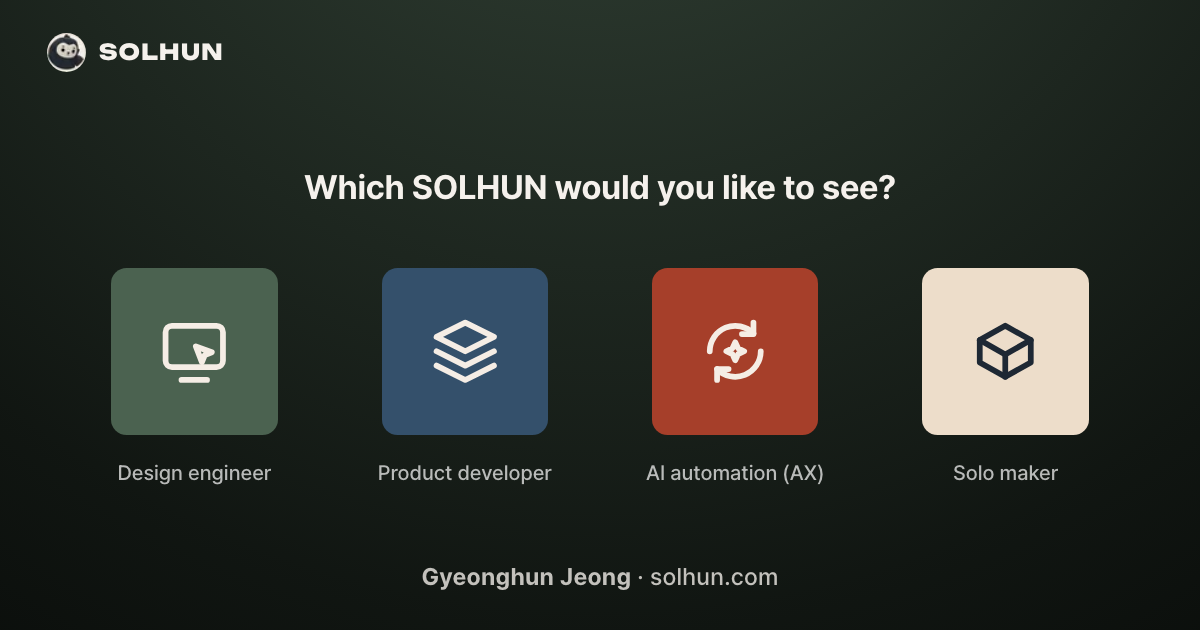
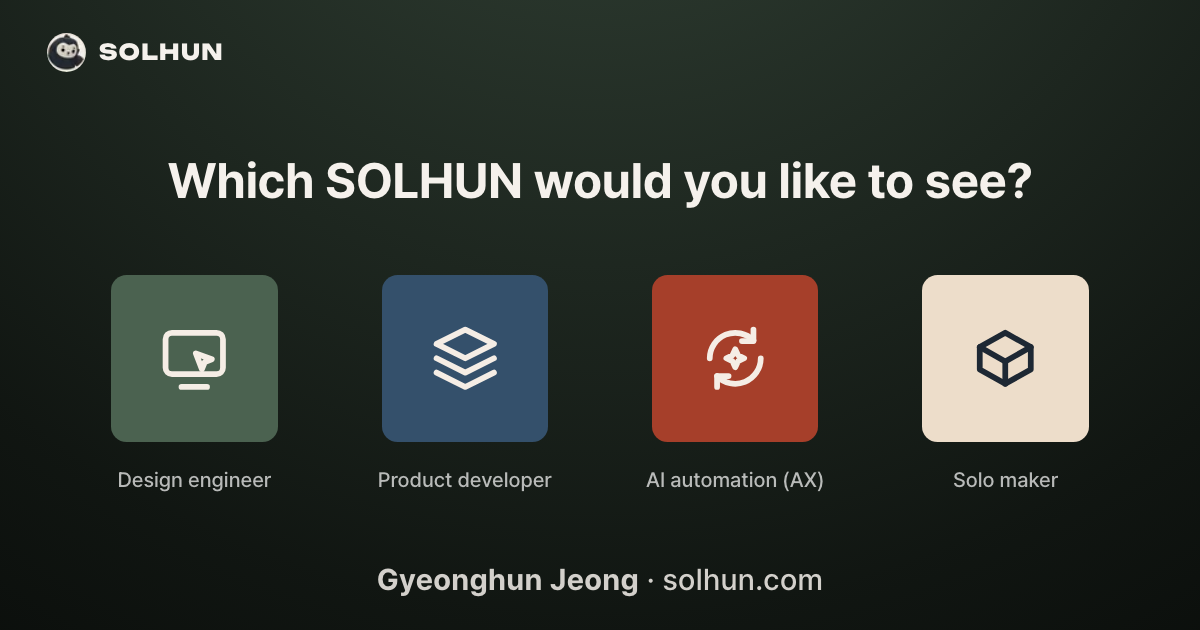
fix: 미리보기 그림 글자 키움 · 생성 스크립트 리뷰 반영(세 장 한 번에 교체 · 죽은 선택자 제거)
말풍선 폭(260px)에서 그림 속 제목이 7px 로 줄어 안 읽혔다 — 제목 38px · 이름 줄 30px 로.
diff 리뷰 낮음 3건: 없는 feedback 선택자 제거, .picker 를 기준 상자로, 임시 폴더에 다 만든 뒤 옮김.

diff --git a/README.md b/README.md
@@ -31,7 +31,7 @@ pnpm e2e:workers                              # E2E(Workers · cf:build 뒤) · 
 | `src/content/images.ts` · `artifacts.ts` | 사진 경로·크기(`public/work/`) · 결과물 목록 |
 | `src/app/(ko)/` · `src/app/(intl)/[locale]/` | 한국어 `/` · `/en`·`/es` — 언어마다 루트 레이아웃을 따로 둬서 `<html lang>` 이 정확하다 |
 | `/` → `src/components/screen/RolePicker.tsx` | 첫 화면 「어떤 SOLHUN을 볼까요?」 — 역할 타일 4개(좁으면 2×2) + 「전부 볼게요」 · 「정경훈 소개」 창. 고르면 `/as/<역할>` |
-| `public/og/home-{ko,en,es}.png` ← `scripts/og-image.mjs` | 홈 링크 미리보기 그림(1200×630) — 운영 첫 화면을 찍어 언어 버튼·단추를 숨기고 이름·주소를 얹은 것(제보 5567b8b0). 역할 이름·첫 화면을 바꿨으면 배포 뒤 `node scripts/og-image.mjs` 로 다시 만들어 커밋한다. 상세·역할 화면은 그대로 작품 표지 |
+| `public/og/home-{ko,en,es}.png` ← `scripts/og-image.mjs` | 홈 링크 미리보기 그림(1200×630) — 운영 첫 화면을 찍어 언어 버튼·단추를 숨기고 이름·주소를 얹은 것(제보 5567b8b0). 역할 이름·첫 화면을 바꿨으면 배포 뒤 `node scripts/og-image.mjs` 로 다시 만들어 커밋한다(카카오톡은 같은 주소의 그림을 캐시한다 — 바꾼 뒤 카카오 공유 디버거에서 캐시 지우기). 상세·역할 화면은 그대로 작품 표지 |
 | `/as/<역할>` → `screen/Browse.tsx` | 역할 화면 — 대표작 빌보드 → 가로 행(그 역할의 프로젝트 · 숫자 · 만든 화면과 도구 · 그 외 · 이전) → 연표 → 연락 |
 | `/projects/<slug>` → `screen/TitlePage.tsx` | 작품 상세(큰 프로젝트 · 그 외 · 이전 공통) — 그림 → 이름·칩 → 사이트 열기/메일 · 링크 복사 → 탭(개요 · 바꾼 것 · 화면 · 비슷한 작품 · 자세히, `#tab-<id>`) |
 | `/design` | **없앴다(2026-11-03)** — 옛 주소는 `next.config.ts` 가 `/as/design#row-artifacts`(308)로 보낸다. 결과물은 역할 화면의 「만든 화면과 도구」 행과 상세 「화면」 탭에만 있다 |
